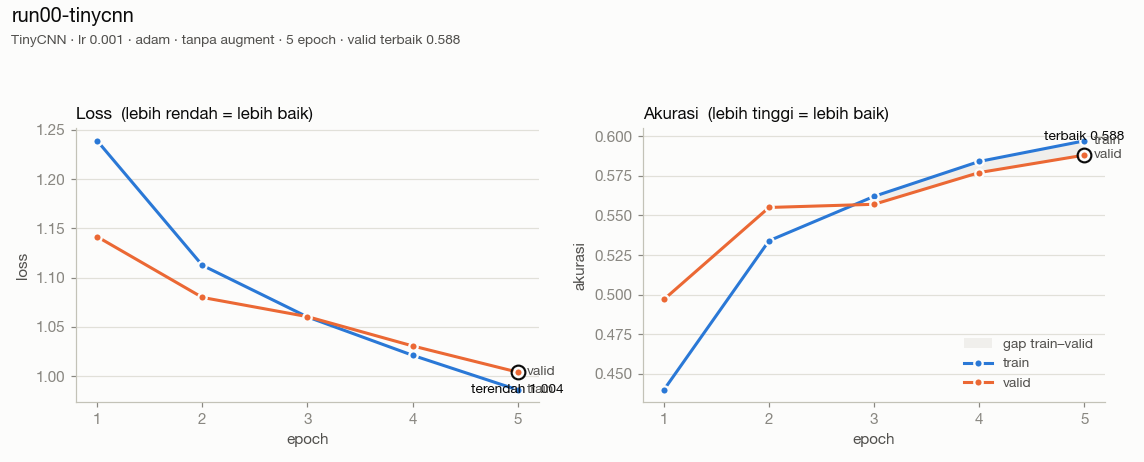
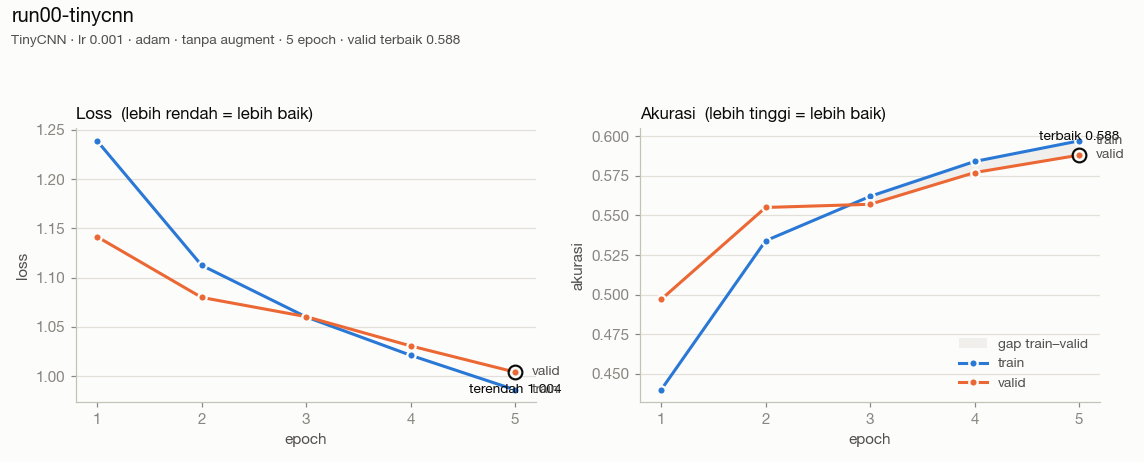
Log the cosine schedule run, which settles the late-epoch wobble
Run 9 is run 8 with one change: the learning rate follows a cosine curve
from 1e-3 down to 2.4e-5 instead of holding at 1e-3.

The wobble went. Across epochs seven to ten validation accuracy climbed
steadily from 0.822 to 0.827, where run 8 swung over five and a half points
in the same stretch and fell to 0.762 at epoch six. The best result, 0.827,
is the first above 0.82 and came at the last epoch, still rising. Once the
learning rate dropped below about 3e-4, the steps were small enough for the
model to settle rather than overshoot.

Overfitting did not go. Training accuracy reached 0.954, and validation loss
bottomed at epoch four (0.507) before climbing to 0.602. The schedule made
accuracy higher and steadier; it did not stop the memorising.

The run started before train.py gained its chart-writing step, so it saved
a checkpoint but no curves file. Its per-epoch numbers are transcribed from
the terminal output and marked as such in run09's JSON.

End-of-line labels on the per-run chart moved from 6 to 11 points out, so
they clear the best-epoch ring when the best epoch is the final one — the
first run where that happened.

diff --git a/scripts/plot_runs.py b/scripts/plot_runs.py
@@ -65,7 +65,8 @@ def _style(ax, ylabel):
 
 
 def _end_label(ax, x, y, text):
-    ax.annotate(text, (x, y), xytext=(6, 0), textcoords="offset points",
+    # 11pt clears the 9pt best-epoch ring when the best epoch is the last one.
+    ax.annotate(text, (x, y), xytext=(11, 0), textcoords="offset points",
                 va="center", fontsize=9, color=INK_2)
 
 

diff --git a/docs/experiments.md b/docs/experiments.md
@@ -16,6 +16,7 @@ Patokan: tebak acak 4 kelas = 0.25. Akurasi manusia di FER2013 (7 kelas) ~0.65.
 | 6 | 10 Sep | MobileNetV3-S pretrained | 224 | 1e-3 | Adam | tanpa | 64 | **flip+rot+jitter** | tanpa | 5 | 0.809 | beda dari #3 cuma augmentation. akurasi nyaris sama (0.809 vs 0.813), tapi **overfitting kerem:** loss valid terendah di epoch 5 (0.534) dan masih turun, sedangkan #3 udah naik lagi sejak epoch 3. gap train–valid 3,6 poin (vs 9). belum konvergen di 5 epoch — butuh run lebih panjang. |
 | 7 | 10 Sep | MobileNetV3-S pretrained | 224 | 1e-3 | Adam | tanpa | 64 | flip+rot+jitter | tanpa | **15** | **0.816** | **plafon ~0.81.** 3x latihan cuma +0,3 dari #3 — dalam rentang berisik val acc (lompat 2–3 poin antar epoch), jadi setara, bukan lebih bagus. augmentation **nunda** overfit (epoch 3 → 5), gak nyegah: loss valid terendah epoch 5 (0.534), lalu naik ke 0.694, gap train–valid 12,7 poin di epoch 15. akurasi datar tapi loss naik = model makin **yakin sama jawaban salah**. checkpoint: epoch 9 → `models/mobilenet-aug.pt`. |
 | 8 | 10 Sep | MobileNetV3-S pretrained | 224 | 1e-3 | **AdamW wd 0.01** | tanpa | 64 | flip+rot+jitter | tanpa | 10 | 0.817 | beda dari #7 cuma optimizer. **nyaris identik:** 0.817 vs 0.816, loss valid terendah tetap epoch 5 (0.527 vs 0.534), train epoch 10 0.900 vs 0.903. wd 0.01 terlalu lemah buat ngerem hafalan. goyangan tetap (epoch 6 anjlok ke 0.762). jalurnya beda di awal (ep1 0.757 vs 0.702) tapi nyampe tempat yang sama → optimizer bukan tuasnya. yang sama di #7 dan #8: lr 1e-3 konstan. |
+| 9 | 10 Sep | MobileNetV3-S pretrained | 224 | 1e-3 | AdamW wd 0.01 | **cosine** | 64 | flip+rot+jitter | tanpa | 10 | **0.827** | beda dari #8 cuma scheduler. **goyangan hilang:** epoch 7–10 naik rapat 0.822 → 0.827 (#8 di rentang yang sama lompat 5,5 poin, anjlok ke 0.762 di epoch 6). tembus 0.82 pertama kali, +1 poin dari #8, terbaik di epoch terakhir dan masih naik. **overfit belum sembuh:** train 0.954, loss valid terendah epoch 4 (0.507) lalu naik ke 0.602. checkpoint `models/mobilenet-cosine.pt`. |
 
 ## Temuan Hari 5 — arsitektur
 
